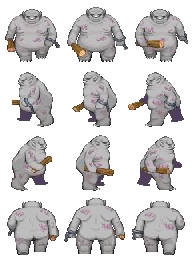
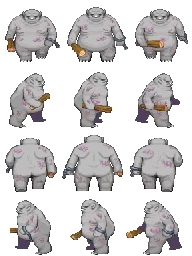
[!] Fixed orientator [*] Started refactoring the mapdisplay for a full-on editor with inspector

Changed region(s): [[0.0312, 0.2812, 0.9688, 1.0], [0.6562, 0.2812, 0.9688, 0.5], [0.0312, 0.2812, 0.2812, 0.5]]

diff --git a/src/editor/mapdisplay.cpp b/src/editor/mapdisplay.cpp
@@ -17,7 +17,7 @@ void editor::mapdisplay::open(MapDisplay& disp, MapInfo& info)
 	disp._map = info;
 	disp._renderer = SDL_CreateRenderer(disp._win, -1, SDL_RENDERER_ACCELERATED);
 
-	disp._vertSelected = -1;
+	disp._currentSelection._currentIndex = -1;
 
 	scale = alfar::vector2::create(50, -50);
 	center = alfar::vector2::create(0,0);
@@ -138,7 +138,7 @@ void editor::mapdisplay::draw(MapDisplay& disp)
 		if(vert[i]._index == -1)
 			continue;
 
-		if(disp._vertSelected == i)
+		if(disp._currentSelection._currentType == Selection::VERTEX && disp._currentSelection._currentIndex == i)
 		{
 			SDL_SetRenderDrawColor(disp._renderer, 255, 0, 255, 255);
 		}
@@ -219,7 +219,7 @@ void editor::mapdisplay::handleInput(MapDisplay& disp, MapInfo& info)
 			{
 				currentMode = VERT_CREATE;
 
-				if(disp._vertSelected != -1)
+				if(disp._currentSelection._currentType == Selection::VERTEX && disp._currentSelection._currentIndex != -1)
 				{
 					int closest = mapvertex::getClosest(worldPos);
 
@@ -229,23 +229,25 @@ void editor::mapdisplay::handleInput(MapDisplay& disp, MapInfo& info)
 						closest = v._index;
 					}
 
-					mapvertex::createLine(VertexManager::getObject(disp._vertSelected), vert[closest], info);
+					mapvertex::createLine(VertexManager::getObject(disp._currentSelection._currentIndex), vert[closest], info);
 
-					disp._vertSelected = closest;
+					disp._currentSelection._currentType = Selection::VERTEX;
+					disp._currentSelection._currentIndex = closest;
 				}
 				else
 				{
 					MapVertex& v = mapvertex::add(worldPos);
-					disp._vertSelected = v._index;
+					disp._currentSelection._currentType = Selection::VERTEX;
+					disp._currentSelection._currentIndex = v._index;
 				}
 			}
 			else if(inputmanager::keyPressed(SDLK_LSHIFT))
 			{
 				int close = mapvertex::getClosest(worldPos);
-				if(disp._vertSelected != -1 && close != -1)
+				if(disp._currentSelection._currentType == Selection::VERTEX && disp._currentSelection._currentIndex != -1 && close != -1)
 				{
 					MapVertex& v = vert[close];
-					MapVertex& v2 = vert[disp._vertSelected];
+					MapVertex& v2 = vert[disp._currentSelection._currentIndex];
 
 					bool create = true;
 					for(int i = 0; i < v._nbLines; ++i)
@@ -273,7 +275,8 @@ void editor::mapdisplay::handleInput(MapDisplay& disp, MapInfo& info)
 			{
 				// -- check for which vertex is selected;
 				currentMode = VERT_MOVE;
-				disp._vertSelected = mapvertex::getClosest(worldPos);
+				disp._currentSelection._currentType = Selection::VERTEX;
+				disp._currentSelection._currentIndex = mapvertex::getClosest(worldPos);
 			}
 			clickedPos = mouse;
 		}
@@ -297,7 +300,7 @@ void editor::mapdisplay::handleInput(MapDisplay& disp, MapInfo& info)
 
 	if(currentMode == VERT_MOVE)
 	{
-		if(disp._vertSelected != -1)
+		if(disp._currentSelection._currentType == Selection::VERTEX && disp._currentSelection._currentIndex != -1)
 		{
 			alfar::Vector2 p = worldPos;
 			if(inputmanager::keyPressed(SDLK_LALT))
@@ -306,7 +309,7 @@ void editor::mapdisplay::handleInput(MapDisplay& disp, MapInfo& info)
 				p.y = std::floor(p.y);
 			}
 
-			mapvertex::move(vert[disp._vertSelected], info, p);
+			mapvertex::move(vert[disp._currentSelection._currentIndex], info, p);
 		}
 	}
 	else if(currentMode == CAM_MOV)
@@ -322,10 +325,10 @@ void editor::mapdisplay::handleInput(MapDisplay& disp, MapInfo& info)
 
 	if(inputmanager::keyPressed(SDLK_DELETE))
 	{
-		if(disp._vertSelected != -1)
+		if(disp._currentSelection._currentType == Selection::VERTEX && disp._currentSelection._currentIndex != -1)
 		{
-			mapinfo::removeVertex(info, disp._vertSelected);
-			disp._vertSelected = -1;
+			mapinfo::removeVertex(info, disp._currentSelection._currentIndex);
+			disp._currentSelection._currentIndex = -1;
 		}
 	}
 }

diff --git a/src/main.cpp b/src/main.cpp
@@ -2,19 +2,26 @@
 
 #include "core/renderer.h"
 #include "mapinfo.h"
+
+#include "core/global.h"
 #include "core/material.h"
 #include "core/inputmanager.h"
 #include "core/entity.h"
 #include "core/collisionmanager.h"
+
 #include "component/camera.h"
 #include "component/spherecollider.h"
 #include "component/behaviour.h"
 #include "component/sprite.h"
+#include "component/spriteorient.h"
+
 #include "editor/mapdisplay.h"
 
 #include "math/vector2.h"
 
 #include "helper/lodepng.h"
+
+float gDeltaTime = 0;
 
 
 int main(int argc, char* argv[])
@@ -28,6 +35,7 @@ int main(int argc, char* argv[])
 	SphereColliderManager::init();
 	BehaviourManager::init();
 	Spritemanager::init();
+	SpriteOrientManager::init();
 
 	SDL_Window *win = NULL;
     SDL_Renderer *renderer = NULL;
@@ -43,6 +51,12 @@ int main(int argc, char* argv[])
 
 	Renderer rend;
 	renderer::create(rend, 800, 600);
+
+	Uint64 t1, t2, frequency;
+
+	frequency = SDL_GetPerformanceFrequency();
+
+	///*******DEBUG STUFF TESTING AND ALL
 
 	int matID = MaterialManager::createObject();
 
@@ -104,6 +118,11 @@ int main(int argc, char* argv[])
 
 	sprite::addToEntity(spr, sprEnt);
 
+	SpriteOrient& sprOr = SpriteOrientManager::createAndGet();
+	sprOr.nbAngles = 4;
+
+	spriteorient::addToEntity(sprOr, sprEnt);
+
     while (1) {
             SDL_Event e;
 			int wheel = 0;
@@ -120,6 +139,8 @@ int main(int argc, char* argv[])
 					}
             }
 
+			t1 = SDL_GetPerformanceCounter();
+
 			inputmanager::update(wheel);
 
 			if(inputmanager::keyPressed(SDLK_F5))
@@ -133,6 +154,8 @@ int main(int argc, char* argv[])
 
 			renderer::clearBuffer(rend, 0x00000000);
 			renderer::raytraceMap(rend, map);
+
+			spriteorient::updateAll();
 
 			sprite::drawAll(rend);
 
@@ -151,6 +174,10 @@ int main(int argc, char* argv[])
             SDL_RenderClear(renderer);
 			SDL_RenderCopy(renderer, writableTex, NULL, NULL);
             SDL_RenderPresent(renderer);
+
+			t2 = SDL_GetPerformanceCounter();
+
+ 			gDeltaTime = (t2 - t1) / (float)frequency;
     }
 
 	delete rend.buffer;

diff --git a/src/component/spriteorient.cpp b/src/component/spriteorient.cpp
@@ -1,0 +1,70 @@
+#include "component/spriteorient.h"
+#include "component/camera.h"
+#include "component/sprite.h"
+
+#include "math/vector2.h"
+
+void created(SpriteOrient& sprOr, int idx)
+{
+	sprOr._idx = idx;
+	sprOr.nbAngles = 1;
+}
+
+void destroyed(SpriteOrient& sprOr)
+{
+	sprOr._idx = -1;
+}
+
+//------------------------------------------------
+
+void spriteorient::addToEntity(SpriteOrient& sprOr, Entity& ent)
+{
+	sprOr._entity = ent._idx;
+	
+	ComponentInfo info;
+	info._idx = sprOr._idx;
+	info._type = SPRITEORIENT;
+
+	entity::addComponentInfo(ent, info);
+}
+
+void spriteorient::updateAll()
+{
+	Camera cam = CameraManager::getObject(camera::mainCam);
+	Entity player = EntityManager::getObject(cam._entity);
+
+	alfar::Vector2 forward = entity::getForward(player);
+	alfar::Vector2 left = alfar::vector2::create(forward.y, -forward.x);
+
+	uint32_t size;
+	SpriteOrient* sprOrs = SpriteOrientManager::getDataPtr(size);
+
+	for(int i = 0; i < size; ++i)
+	{
+		if(sprOrs[i]._idx < 0)
+			continue;
+
+		Entity ent = EntityManager::getObject(sprOrs[i]._entity);
+
+		ComponentInfo sprInf = entity::getComponentInfo(ent, SPRITE);
+
+		if(sprInf._idx == -1)
+			continue;
+
+		Sprite& spr = Spritemanager::getObject(sprInf._idx);
+
+		alfar::Vector2 sprForward = entity::getForward(ent);
+
+		float dot = alfar::vector2::dot(sprForward, forward);
+		float dotLeft = alfar::vector2::dot(sprForward, left);
+		
+		dot = (dot + 1.0f) * 0.25f;
+
+		if(dotLeft < 0)
+			dot = 1.0f - dot;
+
+		int angle = (sprOrs[i].nbAngles * dot) + 0.5f;
+
+		spr.uv.min.y = spr.uv.max.y * angle;
+	}
+}

diff --git a/include/editor/mapdisplay.h b/include/editor/mapdisplay.h
@@ -5,13 +5,21 @@
 
 namespace editor
 {
+	struct Selection
+	{
+		enum SelectedType{VERTEX, ENTITY};
+
+		SelectedType _currentType;
+		int _currentIndex;
+	};
+
 	struct MapDisplay
 	{
 		SDL_Window* _win;
 		SDL_Renderer* _renderer;
 		MapInfo _map;
-
-		int _vertSelected;
+		
+		Selection _currentSelection;
 	};
 
 	namespace mapdisplay
@@ -19,6 +27,8 @@ namespace editor
 		void open(MapDisplay& disp, MapInfo& info);
 		void update(MapDisplay& disp, MapInfo& info);
 		void draw(MapDisplay& disp);
+
+		void drawSelectedInspector(MapDisplay& disp);
 
 		void handleInput(MapDisplay& disp, MapInfo& info);
 	}

diff --git a/src/component/behaviour.cpp b/src/component/behaviour.cpp
@@ -1,6 +1,7 @@
 #include "component/behaviour.h"
 #include "core/inputmanager.h"
 #include "core/collisionmanager.h"
+#include "core/global.h"
 #include "mapinfo.h"
 #include "SDL.h"
 
@@ -25,6 +26,9 @@ void behaviour::update()
 	{
 		if(bs[i]._luaState == NULL)
 			continue;
+
+		lua_pushnumber(bs[i]._luaState, gDeltaTime);
+		lua_setglobal(bs[i]._luaState, "gDeltaTime");
 
 		lua_getglobal(bs[i]._luaState, "onUpdate");
 		if (lua_pcall(bs[i]._luaState, 0, 0, 0) != 0)

diff --git a/src/core/entity.cpp b/src/core/entity.cpp
@@ -29,6 +29,20 @@ void entity::addComponentInfo(Entity& entity, ComponentInfo info)
 	entity._nbComp += 1;
 }
 
+ComponentInfo entity::getComponentInfo(Entity& ent, ComponentType type)
+{
+	for(int i = 0 ; i < ent._nbComp; ++i)
+	{
+		if(ent._component[i]._type == type)
+			return ent._component[i];
+	}
+
+	ComponentInfo inf;
+	inf._idx = -1;
+	return inf;
+}
+
+
 alfar::Vector2 entity::getForward(Entity& entity)
 {
 	alfar::Vector2 vec = {0, 1};

diff --git a/include/component/SpriteOrient.h b/include/component/SpriteOrient.h
@@ -1,9 +1,21 @@
 #pragma once
 
 #include "core/component.h"
+#include "core/entity.h"
 #include "core/objectmanager.h"
 
 struct SpriteOrient : public Component
 {
-
+	int nbAngles;
 };
+
+typedef ObjectManager<SpriteOrient, 128> SpriteOrientManager;
+void created(SpriteOrient& sprOr, int idx);
+void destroyed(SpriteOrient& sprOr);
+
+namespace spriteorient
+{
+	void addToEntity(SpriteOrient& sprOr, Entity& ent);
+
+	void updateAll();
+}

diff --git a/src/component/sprite.cpp b/src/component/sprite.cpp
@@ -21,6 +21,12 @@ void destroyed(Sprite& spr)
 void sprite::addToEntity(Sprite& spr, Entity& ent)
 {
 	spr._entity = ent._idx;
+
+	ComponentInfo info;
+	info._idx = spr._idx;
+	info._type = SPRITE;
+
+	entity::addComponentInfo(ent, info);
 }
 
 void sprite::drawAll(Renderer& rend)

diff --git a/include/core/entity.h b/include/core/entity.h
@@ -25,6 +25,8 @@ void destroyed(Entity& ent);
 namespace entity
 {
 	void addComponentInfo(Entity& entity, ComponentInfo info);
+	ComponentInfo getComponentInfo(Entity& entity, ComponentType type);
 
 	alfar::Vector2 getForward(Entity& entity);
+
 }

diff --git a/include/core/component.h b/include/core/component.h
@@ -4,7 +4,9 @@ enum ComponentType
 {
 	CAMERA,
 	BEHAVIOUR,
-	SPHERECOLLIDER
+	SPHERECOLLIDER,
+	SPRITE,
+	SPRITEORIENT
 };
 
 struct Component

diff --git a/include/core/global.h b/include/core/global.h
@@ -1,0 +1,1 @@
+extern float gDeltaTime;
